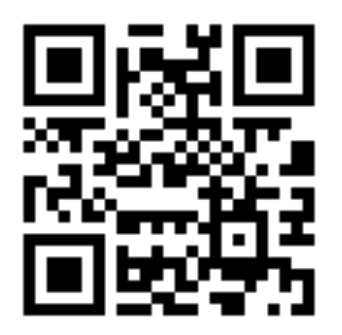
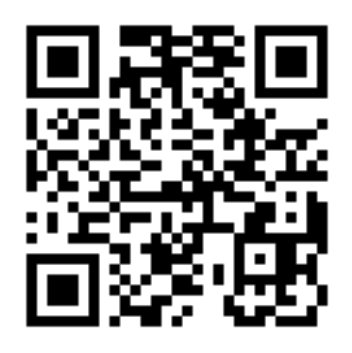
Change to danation addresses

diff --git a/index.html b/index.html
@@ -53,15 +53,14 @@
               <div>
                 <h2>Donation</h2>
                 <div>
-                  <p>₿</p>
-                  <img src="assets/Bitcoin_Donation.png" />
-                  <p>bc1q8pmsy0xfrkpr3vky9kw5kjmqrm0fsg70q963dg</p>
-                  <p>If you want own address, contact me!</p>
+                  <p>₿　bc1qkptwmuhmapfs8taf96fn4gsq9zfca5jcffeevk</p>
+                  <img src="assets/Bitcoin_Donation.png" width="200px" />
+                  <p>If you want your own address, contact me.</p>
                 </div>
                 <div>
-                  <p>⚡</p>
+                  <p>⚡　teatwo21@walletofsatoshi.com</p>
                   <img src="assets/walletofsatoshi.png" width="200px" />
-                  <p>teatwo@walletofsatoshi.com</p>
+
                 </div>
               </div>
             </x-contact>
